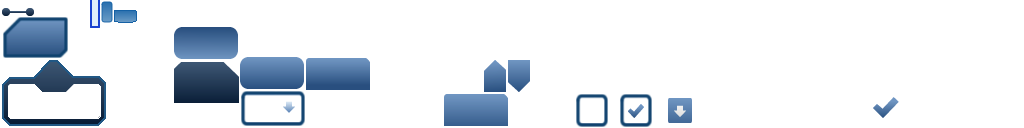
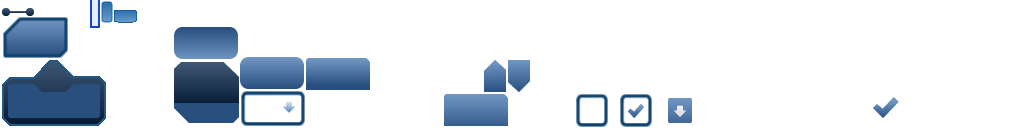
Changed colours and fixed main menu bug where went to wrong mode

Changed region(s): [[0.0, 0.6562, 0.125, 0.9375], [0.1562, 0.7812, 0.25, 0.9688]]

diff --git a/core/src/com/b3/mode/MainMenuScreen.java b/core/src/com/b3/mode/MainMenuScreen.java
@@ -90,7 +90,7 @@ public class MainMenuScreen extends ScreenAdapter {
 			public void changed(ChangeEvent event, Actor actor) {
 //				dispose();
 //				controller.goToMode(modeType);
-				pointTimer = new PointTimer(ModeType.PRACTICE, ANIMATION_TIMER);
+				pointTimer = new PointTimer(modeType, ANIMATION_TIMER);
 			}
 		});
 		return button;
